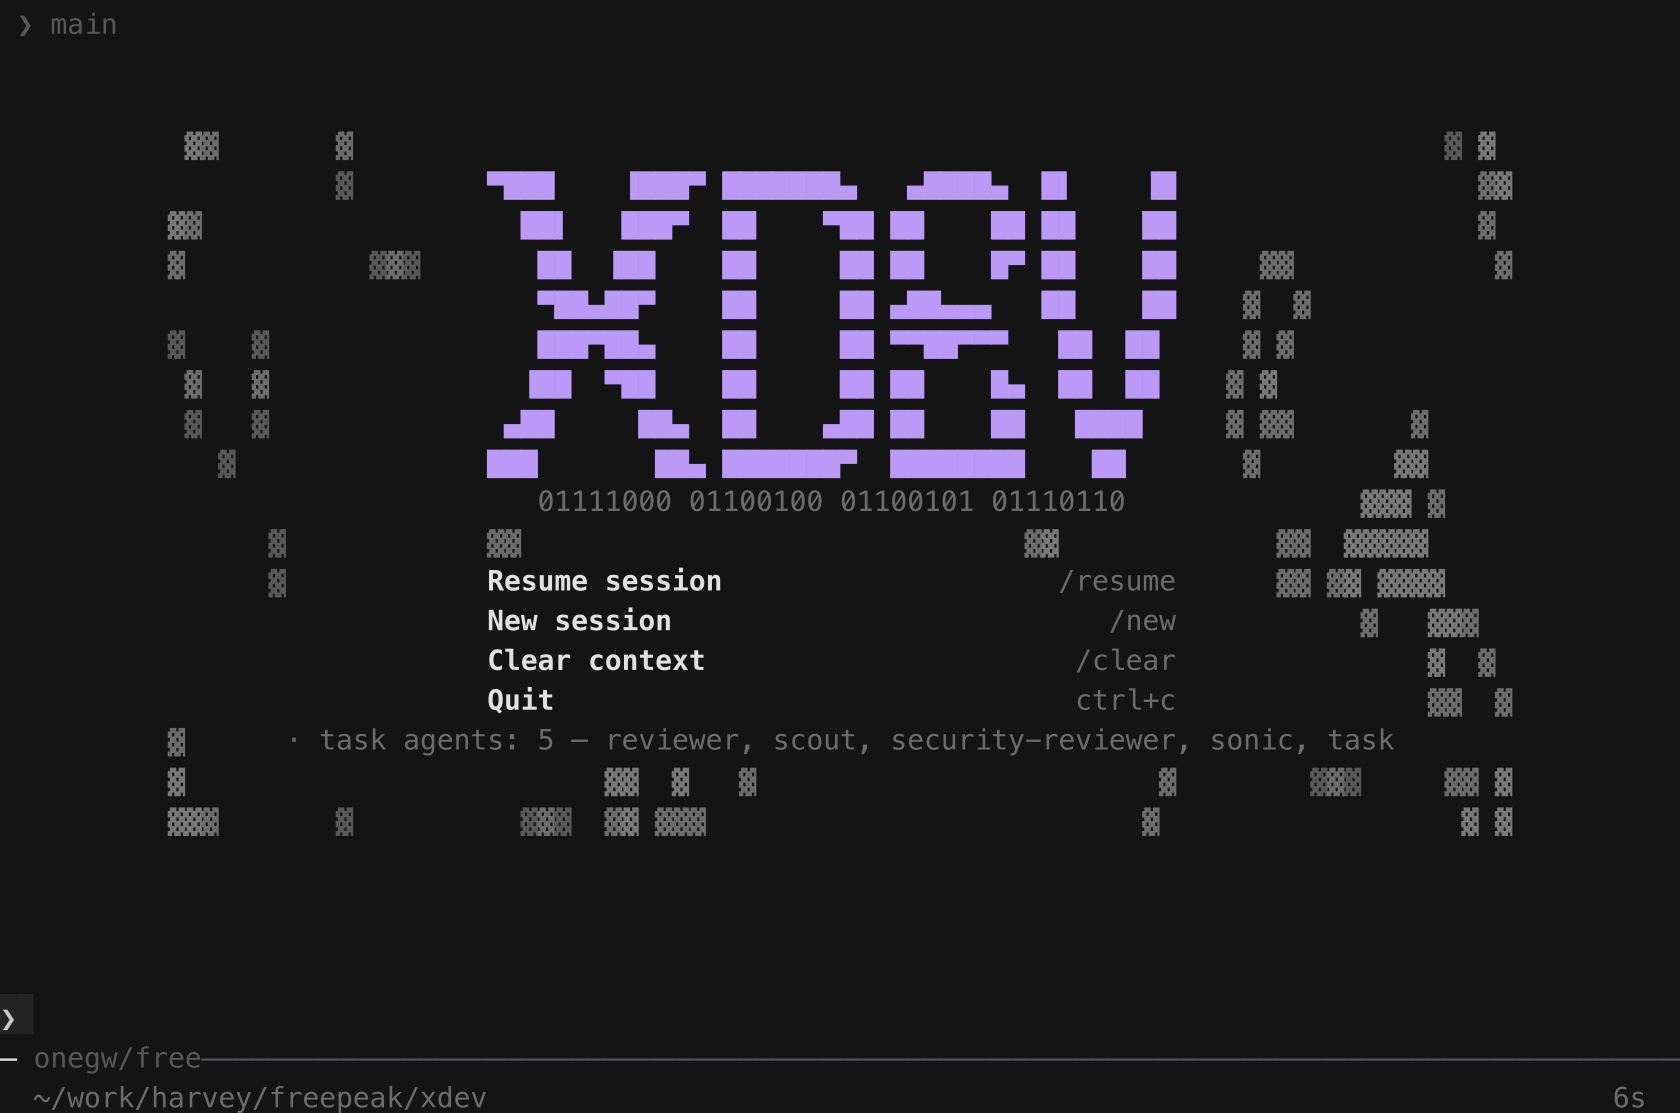
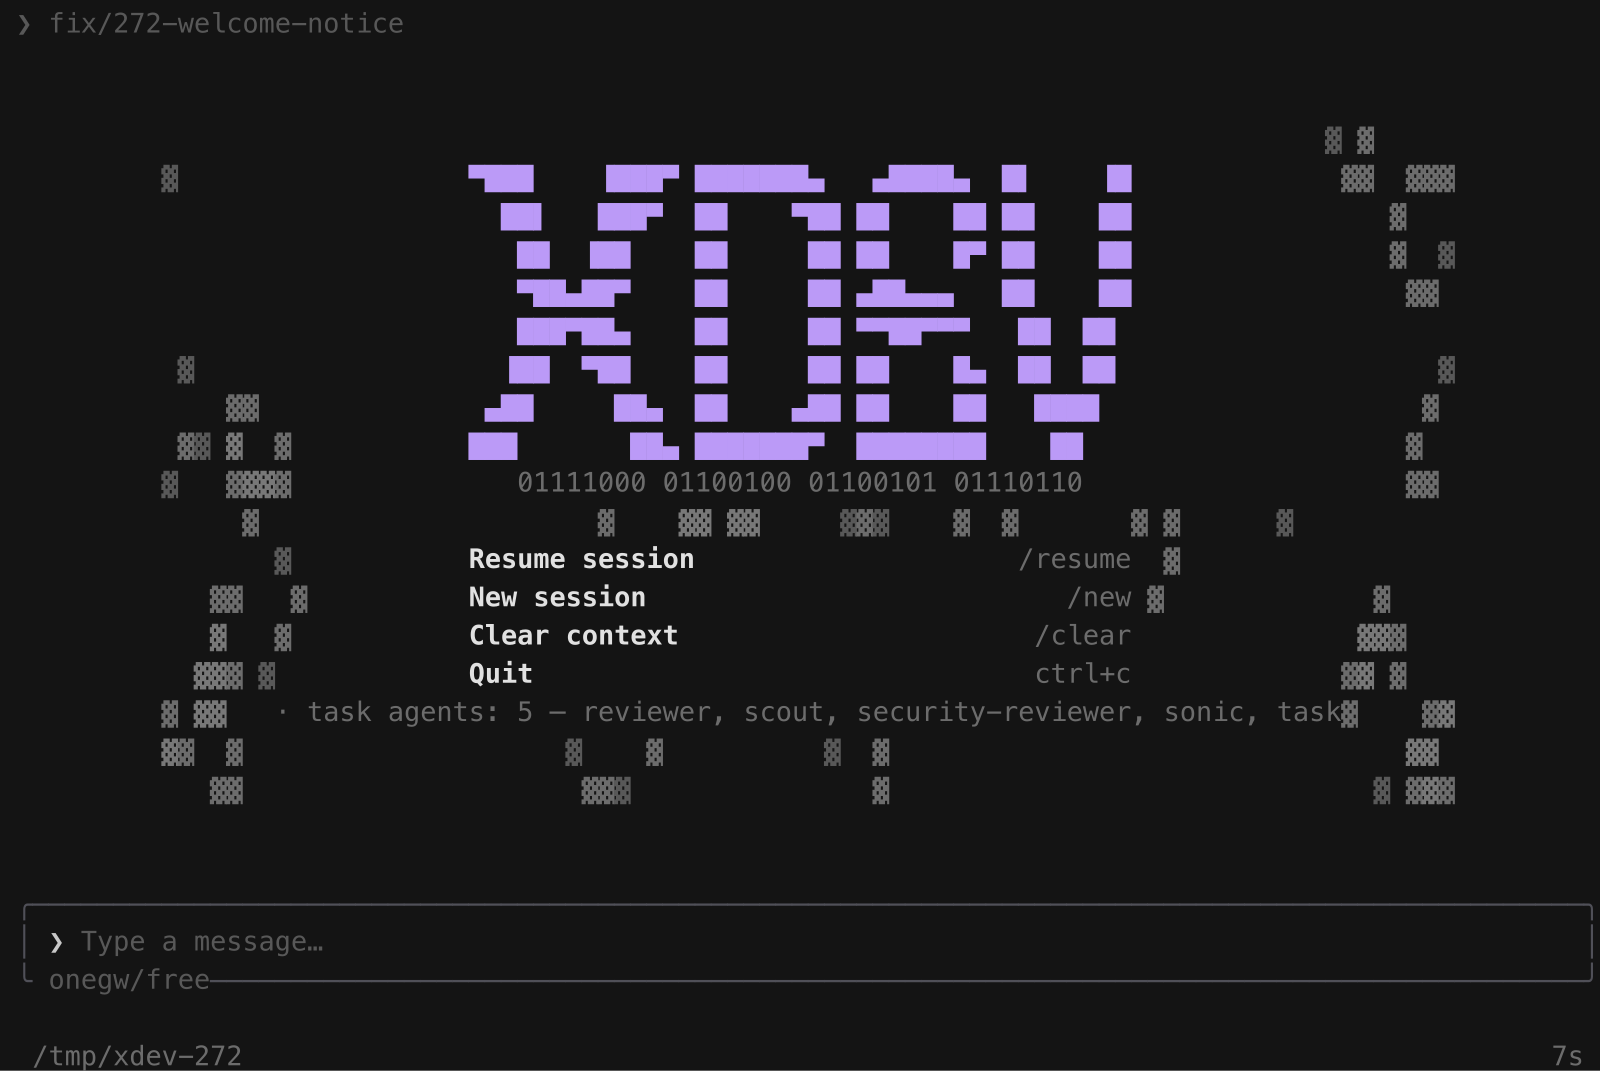
fix(tui): the startup report is a line of the welcome screen, not its replacement (#282)
The start screen was gone: a fresh xdev showed one line — "· task agents: 5
— reviewer, scout, security-reviewer, sonic, task" — where the wordmark and
the session menu used to be. Cause: #272 added that report with
AddSystemBlock, and draw() renders the welcome only while the transcript is
empty, so any block ends that screen. The report won the race against the
thing it was meant to decorate, and only /clear brought the welcome back.

Report it as welcome chrome instead (grok's welcome layout keeps startup
warnings and the tip row as slots of that screen, never scrollback content):
App.SetStartupNotice stores the line when the transcript is empty and falls
back to a block when one exists — a resumed session has no welcome to hang
it on, so the fact stays readable either way, and never appears twice.
drawWelcome reserves a row under the menu for it, centred and truncated to
the screen so a long agent list cannot spill past the edge, and clears that
band so a stray '▓' from the Life grid never lands inside it.

Two more welcome rows were wrong while they were open:

  - the menu column is now as wide as the mark it sits under (grok sizes it
    from logo_visual_width); the fixed 28 left the menu floating off the
    wordmark's own edges
  - "Resume session ctrl+r" never rendered, and ctrl+r is not resume — the
    keymap binds it to history-prev. The menu's hint column is what to type,
    so the row reads "Resume session /resume"
[…]

diff --git a/internal/tui/welcome.go b/internal/tui/welcome.go
@@ -17,19 +17,17 @@ type welcomeMenu struct {
 	Key   string
 }
 
-// welcomeMenuItems returns the start-screen actions for the current
-// session state.
-func welcomeMenuItems(hasHistory bool) []welcomeMenu {
-	items := []welcomeMenu{}
-	if hasHistory {
-		items = append(items, welcomeMenu{Label: "Resume session", Key: "ctrl+r"})
+// welcomeMenuItems returns the start-screen actions. Every row names a
+// control that actually exists: the hint column is what to type (or the chord
+// that is really bound), like grok's menu — a row advertising an unbound
+// chord is a lie the user discovers at the keyboard.
+func welcomeMenuItems() []welcomeMenu {
+	return []welcomeMenu{
+		{Label: "Resume session", Key: "/resume"},
+		{Label: "New session", Key: "/new"},
+		{Label: "Clear context", Key: "/clear"},
+		{Label: "Quit", Key: "ctrl+c"},
 	}
-	items = append(items,
-		welcomeMenu{Label: "New session", Key: "/new"},
-		welcomeMenu{Label: "Clear context", Key: "/clear"},
-		welcomeMenu{Label: "Quit", Key: "ctrl+c"},
-	)
-	return items
 }
 
 // xdevLogo is the one welcome logo: "XDEV" in the FIGlet font
@@ -400,10 +398,13 @@ func (a *App) drawWelcome(s tcell.Screen, w, h int) {
 	// + status row occupy the bottom 4 rows).
 	contentTop, contentH := 2, h-8
 	logo := logoArt(w, contentH)
-	menu := welcomeMenuItems(len(a.blocks) > 0)
+	menu := welcomeMenuItems()
 	total := len(logo) + len(menu)
 	if len(logo) > 0 {
 		total += 2 // binary tagline + gap below the logo
+	}
+	if a.startupNotice != "" {
+		total++ // grok's error/tip slot: a row of its own under the menu
 	}
 	y := contentTop + max(0, (contentH-total)/2)
 
@@ -457,27 +458,61 @@ func (a *App) drawWelcome(s tcell.Screen, w, h int) {
 	}
 	y++ // gap between logo and menu
 
+	// Clear the band behind the menu + notice block (one column of margin,
+	// the same treatment the logo gets): the Life grid paints '▓' anywhere in
+	// its band, and a cell surviving between the key and the edge read as
+	// garbage in a row that is otherwise aligned chrome.
+	noticeRows := len(strings.Split(a.startupNotice, "\n"))
+	if a.startupNotice == "" {
+		noticeRows = 0
+	}
 	// Menu: label left, hotkey right-aligned in a centered column
 	// (grok menu.rs). On a narrow window the column doesn't fit —
-	// fall back to label + key inline.
-	colW := 28
+	// fall back to label + key inline. The column is as wide as the mark it
+	// sits under, like grok's render_menu (logo_visual_width().max(30)): a
+	// fixed 28 left the menu floating off the logo's own edges.
+	colW := max(28, logoW)
 	for _, m := range menu {
 		if cw := width(m.Label) + width(m.Key) + 4; cw > colW {
 			colW = cw
 		}
 	}
-	if w < colW+4 {
+	if w >= colW+4 {
+		x0 := max(2, (w-colW)/2)
+		for yy := y; yy < min(h, y+len(menu)+noticeRows); yy++ {
+			for xx := max(0, x0-1); xx < min(w, x0+colW+1); xx++ {
+				s.SetContent(xx, yy, ' ', nil, st(whiteC, false))
+			}
+		}
+		for _, m := range menu {
+			drawText(s, x0, y, m.Label, st(a.th.Get(theme.TextPrimary), true))
+			drawText(s, x0+colW-width(m.Key), y, m.Key, st(a.th.Get(theme.Gray), false))
+			y++
+		}
+	} else {
 		for _, m := range menu {
 			drawText(s, 2, y, m.Label, st(a.th.Get(theme.TextPrimary), true))
 			drawText(s, 2+width(m.Label)+2, y, m.Key, st(a.th.Get(theme.Gray), false))
 			y++
 		}
-		return
 	}
-	x0 := max(2, (w-colW)/2)
-	for _, m := range menu {
-		drawText(s, x0, y, m.Label, st(a.th.Get(theme.TextPrimary), true))
-		drawText(s, x0+colW-width(m.Key), y, m.Key, st(a.th.Get(theme.Gray), false))
+	a.drawStartupNotice(s, w, y, st(grayC, false))
+}
+
+// drawStartupNotice paints the startup report (see App.SetStartupNotice) on
+// its own rows below the menu — grok's error/tip slot — centred, clipped to
+// the screen and truncated to width so a long agent list can never spill past
+// the edge. Dim: it is a fact about the build, not a turn of the conversation.
+func (a *App) drawStartupNotice(s tcell.Screen, w, y int, dim tcell.Style) {
+	for _, ln := range strings.Split(a.startupNotice, "\n") {
+		if y >= a.height {
+			return
+		}
+		if w <= 4 { // too narrow to centre anything in
+			return
+		}
+		txt := truncateCells(ln, w-4, "…")
+		drawText(s, max(2, (w-width(txt))/2), y, txt, dim)
 		y++
 	}
 }

diff --git a/internal/tui/welcome_test.go b/internal/tui/welcome_test.go
@@ -143,18 +143,58 @@ func TestAppEscClosesDropdown(t *testing.T) {
 	}
 }
 
-// TestWelcomeMenuItems covers the menu contract.
+// TestWelcomeMenuItems covers the menu contract: four rows, every hint a
+// control that exists.
 func TestWelcomeMenuItems(t *testing.T) {
-	items := welcomeMenuItems(false)
-	if len(items) != 3 {
-		t.Fatalf("fresh session menu = %d rows, want 3", len(items))
+	items := welcomeMenuItems()
+	if len(items) != 4 {
+		t.Fatalf("menu = %d rows, want 4", len(items))
 	}
-	if items[0].Key != "/new" {
-		t.Fatalf("first action = %q, want /new", items[0].Key)
+	for _, it := range items {
+		if it.Label == "" || it.Key == "" {
+			t.Fatalf("menu row %v has no label or no key", it)
+		}
+		if it.Key == "ctrl+r" {
+			t.Fatalf("menu advertises %q, which no keymap binds", it.Key)
+		}
 	}
-	items = welcomeMenuItems(true)
-	if len(items) != 4 || items[0].Key != "ctrl+r" {
-		t.Fatalf("with history, first row must be Resume (ctrl+r)")
+	if items[0].Key != "/resume" {
+		t.Fatalf("first action = %q, want /resume", items[0].Key)
+	}
+}
+
+// TestWelcomeStartupNotice pins the #272 surface: the startup report is a
+// LINE OF THE WELCOME SCREEN. As a transcript block it ended that screen, so
+// the first thing a fresh xdev showed was an agent count instead of its logo
+// and menu. With a transcript already on screen there is no welcome to hang
+// it on, so the same call falls back to the scrollback.
+func TestWelcomeStartupNotice(t *testing.T) {
+	app, scr := newTestApp(t, 100, 30)
+	app.SetStartupNotice("· task agents: 5 — reviewer, scout, task")
+	app.draw()
+	if !gridContains(scr, "New session") {
+		t.Fatal("a startup notice must not evict the welcome screen")
+	}
+	if !gridContains(scr, "task agents: 5") {
+		t.Fatal("startup notice missing from the welcome screen")
+	}
+	app.mu.Lock()
+	blocks := len(app.blocks)
+	app.mu.Unlock()
+	if blocks != 0 {
+		t.Fatalf("notice went into the transcript (%d blocks); it must stay chrome", blocks)
+	}
+
+	// With a transcript the welcome is gone, and the notice must still be
+	// readable — as a block.
+	app2, _ := newTestApp(t, 100, 30)
+	app2.AddSystemBlock("hello")
+	app2.SetStartupNotice("· task agents: 0 — none")
+	app2.mu.Lock()
+	n, last := len(app2.blocks), app2.blocks[len(app2.blocks)-1].Text
+	app2.mu.Unlock()
+	if n != 2 || last != "· task agents: 0 — none" {
+		t.Fatalf("with a transcript the notice must be a block; got %d blocks, last=%q", n, last)
 	}
 }
 

diff --git a/internal/tui/app.go b/internal/tui/app.go
@@ -148,6 +148,12 @@ type App struct {
 	life       lifeGrid
 	lifeTick   int
 	sheenPhase int // welcome logo sheen sweep position (columns)
+	// startupNotice is a line of the welcome screen's own chrome — what
+	// loaded, what broke (#272). It is deliberately NOT a transcript block:
+	// any block ends the welcome screen, so the report used to replace the
+	// start screen. grok keeps the same split — startup warnings and the tip
+	// row are slots of the welcome layout, never scrollback content.
+	startupNotice string
 	// Mouse text selection: drag anywhere, release copies to the clipboard.
 	// selDown is the held button (a drag in flight); selShown keeps the
 	// highlight up after the release until the next click, like a terminal's
@@ -331,6 +337,26 @@ func (a *App) AddSystemBlock(text string) {
 	a.mu.Lock()
 	a.blocks = append(a.blocks, &Block{Kind: KindSystem, Text: text})
 	a.mu.Unlock()
+	a.poke()
+}
+
+// SetStartupNotice reports a startup fact (#272: what loaded, what broke)
+// where the user will actually read it. With an empty transcript it becomes
+// a line of the welcome screen — a transcript block would end that screen,
+// which is how "· task agents: 5" came to replace the start screen outright.
+// Once a transcript exists (a resumed session) there is no welcome to hang it
+// on, so it goes to the scrollback instead. Either way it is one line the user
+// sees before the first turn, and never both.
+func (a *App) SetStartupNotice(text string) {
+	a.mu.Lock()
+	empty := len(a.blocks) == 0
+	if empty {
+		a.startupNotice = text
+	}
+	a.mu.Unlock()
+	if !empty {
+		a.AddSystemBlock(text)
+	}
 	a.poke()
 }
 
@@ -2718,6 +2744,14 @@ func (a *App) drawComposer(yTop int) {
 	// short line cannot leave stale cells from a previous longer draft.
 	for i, ln := range lines {
 		x := 5 + width(ln)
+		if x == 5 && a.ed.Text() == "" {
+			// grok's "Type a message…": an empty prompt is not a blank void.
+			// Drawn here, after the text row, because the fill below would
+			// otherwise blank it back to spaces.
+			ph := "Type a message…"
+			drawText(a.scr, 5, yTop+i, ph, ms.body.Foreground(a.cellColor(a.th.Get(theme.GrayDim))))
+			x += width(ph)
+		}
 		for ; x < w-2; x++ {
 			a.scr.SetContent(x, yTop+i, ' ', nil, ms.body)
 		}

diff --git a/internal/tui/composer_placeholder_test.go b/internal/tui/composer_placeholder_test.go
@@ -1,0 +1,29 @@
+package tui
+
+import (
+	"strings"
+	"testing"
+)
+
+// TestComposerPlaceholder pins grok's "Type a message…" hint: an empty prompt
+// says what to do instead of painting a blank row, and it is gone the moment
+// there is a draft — a placeholder that survives under typed text reads as
+// part of the user's message.
+func TestComposerPlaceholder(t *testing.T) {
+	app, scr := drawnApp(t, 60, 14)
+	app.draw()
+	text := screenText(scr)
+	if !strings.Contains(text, "❯ Type a message…") {
+		t.Fatalf("empty composer shows no placeholder:\n%s", text)
+	}
+
+	setDraft(&app.ed, "hi", 2)
+	app.draw()
+	text = screenText(scr)
+	if strings.Contains(text, "Type a message") {
+		t.Fatalf("placeholder must not outlive an empty draft:\n%s", text)
+	}
+	if !strings.Contains(text, "❯ hi") {
+		t.Fatalf("draft misplaced after the placeholder:\n%s", text)
+	}
+}

diff --git a/cmd/xdev/tui.go b/cmd/xdev/tui.go
@@ -361,7 +361,7 @@ func runTUI(opts printOptions, themeName string) (exitCode int, err error) {
 	// warnings used to go — so an empty or half-broken agent set looked
 	// exactly like a working one. Say what loaded, before the first turn.
 	if notice, _, _ := taskAgentsAtStartup(cwd); notice != "" {
-		app.AddSystemBlock(notice)
+		app.SetStartupNotice(notice)
 	}
 
 	// -handoff: document the resumed session before the first turn.
